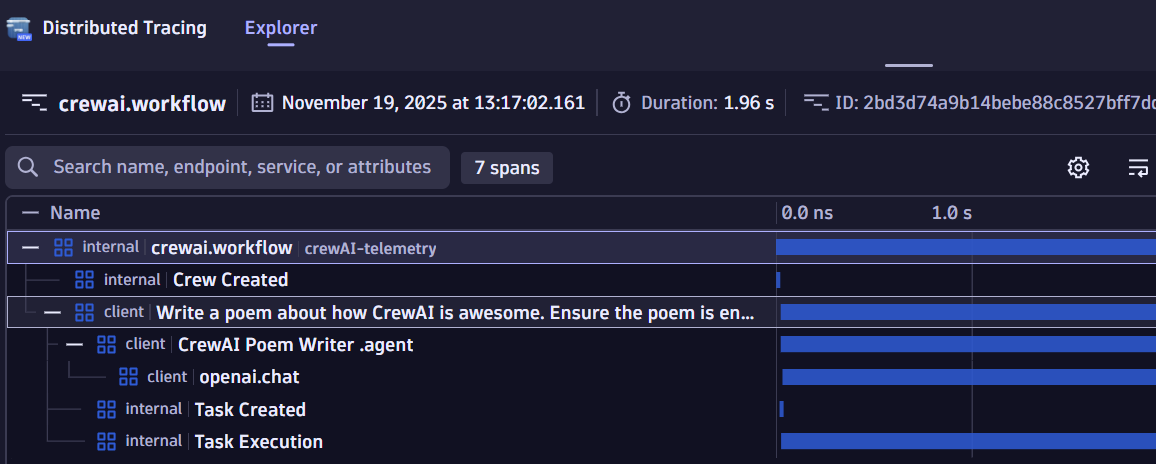
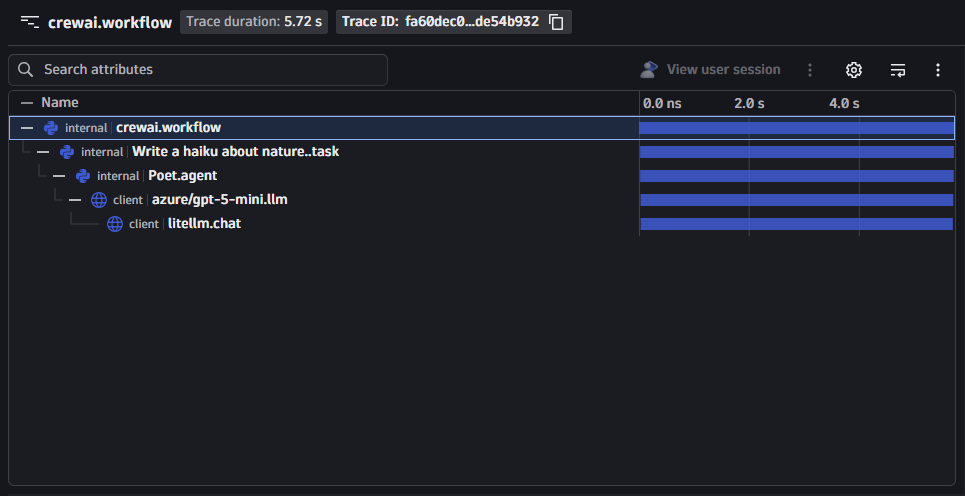
AI-76: Fix SDK delta: crewai (#248)
* adding temperature and conversation_id

* extract gen_ai.system_instructions from input messages in collector

* switch crewai e2e suite to collector test

* updates screenshots

diff --git a/crewai/opentelemetry/app.py b/crewai/opentelemetry/app.py
@@ -1,11 +1,13 @@
 import asyncio
 import os
+import uuid
 
 os.environ["TRACELOOP_TELEMETRY"] = "false"
 os.environ.setdefault("OTEL_SERVICE_NAME", "crewai")
 os.environ.setdefault("OTEL_EXPORTER_OTLP_METRICS_TEMPORALITY_PREFERENCE", "delta")
 
 from traceloop.sdk import Traceloop
+from traceloop.sdk.tracing.tracing import set_conversation_id
 
 # Export target. `make run-collector` sets OTEL_ENDPOINT to a local OTel
 # Collector, which derives the GenAI agent and workflow duration metrics from the
@@ -49,8 +51,11 @@ async def haiku() -> str:
         base_url=os.getenv("AZURE_OPENAI_ENDPOINT"),
         api_key=os.getenv("AZURE_OPENAI_API_KEY"),
         api_version=os.getenv("OPENAI_API_VERSION", "2024-07-01-preview"),
+        temperature=0.7,
         is_litellm=True,
     )
+
+    set_conversation_id(str(uuid.uuid4()))
 
     def _call() -> str:
         poet = Agent(
